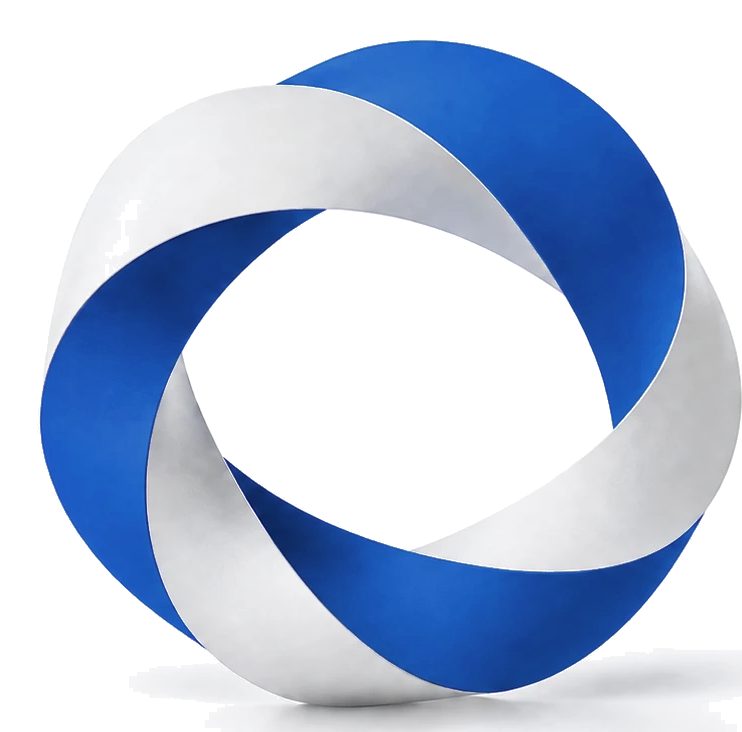
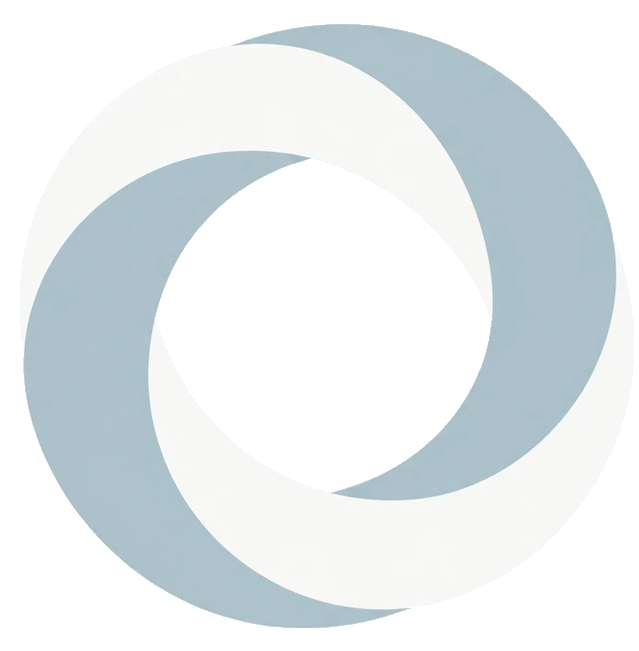
キービジュアルを差し替え、トーンをさらに穏やかに
新しいキービジュアル（淡い水色＋グレーと白のフラットなリング）に
合わせて、ファーストビューと参考図のトーンを揃えた。

- アクセントを #1F4FA8 から青灰 #3F6B80 へ
- ヒーローの地を全面の淡い水色に
- 3ステップの図・ハブ図・3つの要素をグレー＋淡い水色のモチーフに
- OGP画像も同じトーンで作り直し

diff --git a/pr-engineering/assets/css/style.css b/pr-engineering/assets/css/style.css
@@ -7,15 +7,18 @@ img{max-width:100%}
 :root{
   --ground:#FFFFFF;
   --tint:#F7F8F6;
+  --sky:#DDEAEF;
+  --slate:#ACC1CA;
+  --slate-deep:#7F9AA6;
   --tint-2:#EDF1F0;
   --surface:#FFFFFF;
   --ink:#283136;
   --body:#536167;
   --muted:#66757B;
   --line:#DFE4E3;
-  --accent:#1F4FA8;
-  --accent-strong:#17407F;
-  --accent-soft:#E9EDF4;
+  --accent:#3F6B80;
+  --accent-strong:#325768;
+  --accent-soft:#E6EDF0;
   --warm:#F08A24;
   --warm-strong:#DC7712;
   --warm-soft:#FDF0E1;
@@ -34,7 +37,8 @@ img{max-width:100%}
   :root{
     --ground:#141A1C; --tint:#1A2124; --tint-2:#20292C; --surface:#1D2528;
     --ink:#EDF1F0; --body:#C2CBCD; --muted:#8E9A9E; --line:#2E383B;
-    --accent:#8FADDC; --accent-strong:#A9C2E8; --accent-soft:#1E2A3A;
+    --accent:#9DB6C1; --accent-strong:#B5C9D2; --accent-soft:#223036;
+    --sky:#223038; --slate:#6F8894; --slate-deep:#90A8B3;
     --warm:#F0A45C; --warm-strong:#FFB258; --warm-soft:#3A2A16;
     --on-accent:#111A26; --wave:#33444F;
     --shadow:0 1px 2px rgba(0,0,0,.3), 0 10px 28px rgba(0,0,0,.35);
@@ -84,11 +88,11 @@ a{color:inherit}
 @media (max-width:900px){.nav a:not(.btn){display:none}}
 
 /* hero */
-.hero{position:relative;padding-block:clamp(64px,9vw,112px) clamp(56px,7vw,88px);overflow:hidden;margin-inline:calc(-1*clamp(16px,4vw,48px));padding-inline:clamp(16px,4vw,48px);background:linear-gradient(170deg,#F2F6F7 0%,var(--ground) 72%)}
+.hero{position:relative;padding-block:clamp(64px,9vw,112px) clamp(56px,7vw,88px);overflow:hidden;margin-inline:calc(-1*clamp(16px,4vw,48px));padding-inline:clamp(16px,4vw,48px);background:linear-gradient(168deg,var(--sky) 0%,#E4EDF1 100%)}
 #wave{position:absolute;inset:0;width:100%;height:100%;pointer-events:none}
 .hero .wrap{position:relative;display:grid;grid-template-columns:minmax(0,1.3fr) minmax(0,.7fr);align-items:center;gap:clamp(24px,4vw,48px)}
 .hero-kv{justify-self:end}
-.hero-kv img{display:block;width:100%;max-width:400px;height:auto}
+.hero-kv img{display:block;width:100%;max-width:430px;height:auto}
 @media (max-width:860px){
   .hero .wrap{grid-template-columns:1fr}
   .hero-kv{order:-1;max-width:300px;justify-self:start}
@@ -159,16 +163,16 @@ section.s{padding-block:clamp(64px,8vw,104px)}
 .pe-flow{position:relative;margin-top:32px}
 .pe-ribbon{position:absolute;left:11%;right:11%;top:22%;width:78%;height:56%;pointer-events:none}
 .pe-ribbon path{fill:none;stroke:url(#pe-grad);stroke-width:30;stroke-linecap:round}
-.pe-ribbon .s1{stop-color:var(--accent);stop-opacity:.40}
-.pe-ribbon .s2{stop-color:var(--accent);stop-opacity:.34}
-.pe-ribbon .s3{stop-color:var(--warm);stop-opacity:.36}
-.pe-ribbon .s4{stop-color:var(--warm);stop-opacity:.52}
+.pe-ribbon .s1{stop-color:var(--slate-deep);stop-opacity:.55}
+.pe-ribbon .s2{stop-color:var(--slate);stop-opacity:.75}
+.pe-ribbon .s3{stop-color:var(--slate);stop-opacity:.7}
+.pe-ribbon .s4{stop-color:var(--sky);stop-opacity:.95}
 .pe-steps{list-style:none;margin:0;padding:0;position:relative;display:grid;grid-template-columns:repeat(3,minmax(0,1fr));gap:clamp(16px,3vw,40px)}
 .pe-steps li{aspect-ratio:1;border-radius:50%;background:var(--surface);border:1px solid var(--line);box-shadow:var(--shadow);display:flex;flex-direction:column;align-items:center;justify-content:center;text-align:center;padding:clamp(18px,3vw,44px)}
 .pe-no{font-family:var(--f-mono);font-size:11px;color:var(--muted)}
 .pe-steps h3{margin-top:4px;font-size:clamp(15px,1.5vw,20px);letter-spacing:.14em;color:var(--ink)}
 .pe-icon{display:block;margin:14px 0 12px;color:var(--accent);line-height:0}
-.pe-steps li:last-child .pe-icon{color:var(--warm-strong)}
+.pe-steps li:last-child .pe-icon{color:var(--slate-deep)}
 .pe-steps p{font-size:clamp(12px,1.05vw,14px);line-height:1.8}
 @media (max-width:820px){
   .pe-ribbon{display:none}
@@ -182,7 +186,7 @@ section.s{padding-block:clamp(64px,8vw,104px)}
 .pe + .elements{margin-top:32px}
 
 /* 仕組みを構成する3つの要素 */
-.elements{margin-top:28px;padding:26px clamp(20px,3vw,30px);background:var(--tint-2);border-radius:var(--r)}
+.elements{margin-top:28px;padding:26px clamp(20px,3vw,30px);background:var(--sky);border-radius:var(--r)}
 .el-head{font-size:15px;font-weight:700;color:var(--ink);letter-spacing:.02em}
 .elements dl{margin:18px 0 0;display:grid;grid-template-columns:repeat(3,minmax(0,1fr));gap:clamp(12px,1.6vw,18px)}
 .elements dl > div{background:var(--surface);border:1px solid var(--line);border-radius:var(--r-sm);padding:16px 18px 18px}
@@ -275,10 +279,10 @@ section.s{padding-block:clamp(64px,8vw,104px)}
 .hub-flow{position:relative;margin-top:28px}
 .hub-lines{position:absolute;inset:0;width:100%;height:100%;pointer-events:none}
 .hub-lines path{fill:none;stroke-linecap:round}
-.hl-out path{stroke:var(--accent);stroke-width:3;opacity:.75}
-.hl-back path{stroke:var(--warm-strong);stroke-width:3;stroke-dasharray:8 8;opacity:.8}
+.hl-out path{stroke:var(--slate-deep);stroke-width:3;opacity:.85}
+.hl-back path{stroke:var(--slate);stroke-width:3;stroke-dasharray:8 8;opacity:1}
 .hub-grid{position:relative;display:grid;grid-template-columns:minmax(0,1fr) minmax(230px,1.15fr) minmax(0,1fr);gap:clamp(14px,2.8vw,36px);align-items:center}
-.hub-core{grid-column:2;grid-row:1 / span 2;justify-self:center;aspect-ratio:1;width:100%;max-width:252px;border-radius:50%;background:radial-gradient(circle at 38% 32%,#2A5EBE 0%,var(--accent-strong) 100%);color:#fff;display:flex;flex-direction:column;align-items:center;justify-content:center;text-align:center;padding:24px;box-shadow:0 14px 34px rgba(40,49,54,.18)}
+.hub-core{grid-column:2;grid-row:1 / span 2;justify-self:center;aspect-ratio:1;width:100%;max-width:252px;border-radius:50%;background:radial-gradient(circle at 38% 32%,#6E8E9C 0%,var(--accent-strong) 100%);color:#fff;display:flex;flex-direction:column;align-items:center;justify-content:center;text-align:center;padding:24px;box-shadow:0 14px 34px rgba(40,49,54,.18)}
 .hub-core h3{font-size:clamp(16px,1.6vw,20px);color:#fff;letter-spacing:.02em}
 .hub-core p{margin-top:10px;font-size:clamp(11px,1vw,12.5px);line-height:1.8;color:rgba(255,255,255,.88)}
 .hub-card{background:var(--surface);border:1px solid var(--line);border-radius:var(--r);box-shadow:var(--shadow-sm);padding:20px clamp(16px,1.8vw,22px) 22px}
@@ -293,8 +297,8 @@ section.s{padding-block:clamp(64px,8vw,104px)}
 .hub-card li::before{content:"・";color:var(--accent)}
 .hub-legend{margin-top:26px;text-align:center;font-size:13px;line-height:1.9;color:var(--body)}
 .lg{font-weight:700;padding:2px 10px;border-radius:999px}
-.lg-out{color:var(--accent);background:var(--accent-soft)}
-.lg-back{color:var(--warm-strong);background:var(--warm-soft)}
+.lg-out{color:var(--accent-strong);background:var(--accent-soft)}
+.lg-back{color:#5E7B88;background:var(--sky)}
 @media (max-width:860px){
   .hub-lines{display:none}
   .hub-grid{grid-template-columns:1fr;gap:14px}

diff --git a/pr-engineering/index.html b/pr-engineering/index.html
@@ -36,7 +36,7 @@
 <link rel="preconnect" href="https://fonts.googleapis.com">
 <link rel="preconnect" href="https://fonts.gstatic.com" crossorigin>
 <link rel="stylesheet" href="https://fonts.googleapis.com/css2?family=IBM+Plex+Mono:wght@400;500&family=IBM+Plex+Sans+JP:wght@400;500;600;700&family=Inter:wght@900&display=swap">
-<link rel="stylesheet" href="assets/css/style.css?v=20261005d">
+<link rel="stylesheet" href="assets/css/style.css?v=20261005f">
 </head>
 <body>
 <header class="top">
@@ -68,7 +68,7 @@
         <span>企画・戦略</span><span>メディア向けPR</span><span>SNS・オウンド</span><span>イベント</span><span>効果測定</span><span>AI可視性（GEO）</span>
       </div>
     </div>
-    <div class="hero-kv"><img src="assets/img/kv-ring.png" width="742" height="732" alt="" fetchpriority="high"></div>
+    <div class="hero-kv"><img src="assets/img/kv-ring.png" width="639" height="651" alt="" fetchpriority="high"></div>
   </div>
 </section>
 
